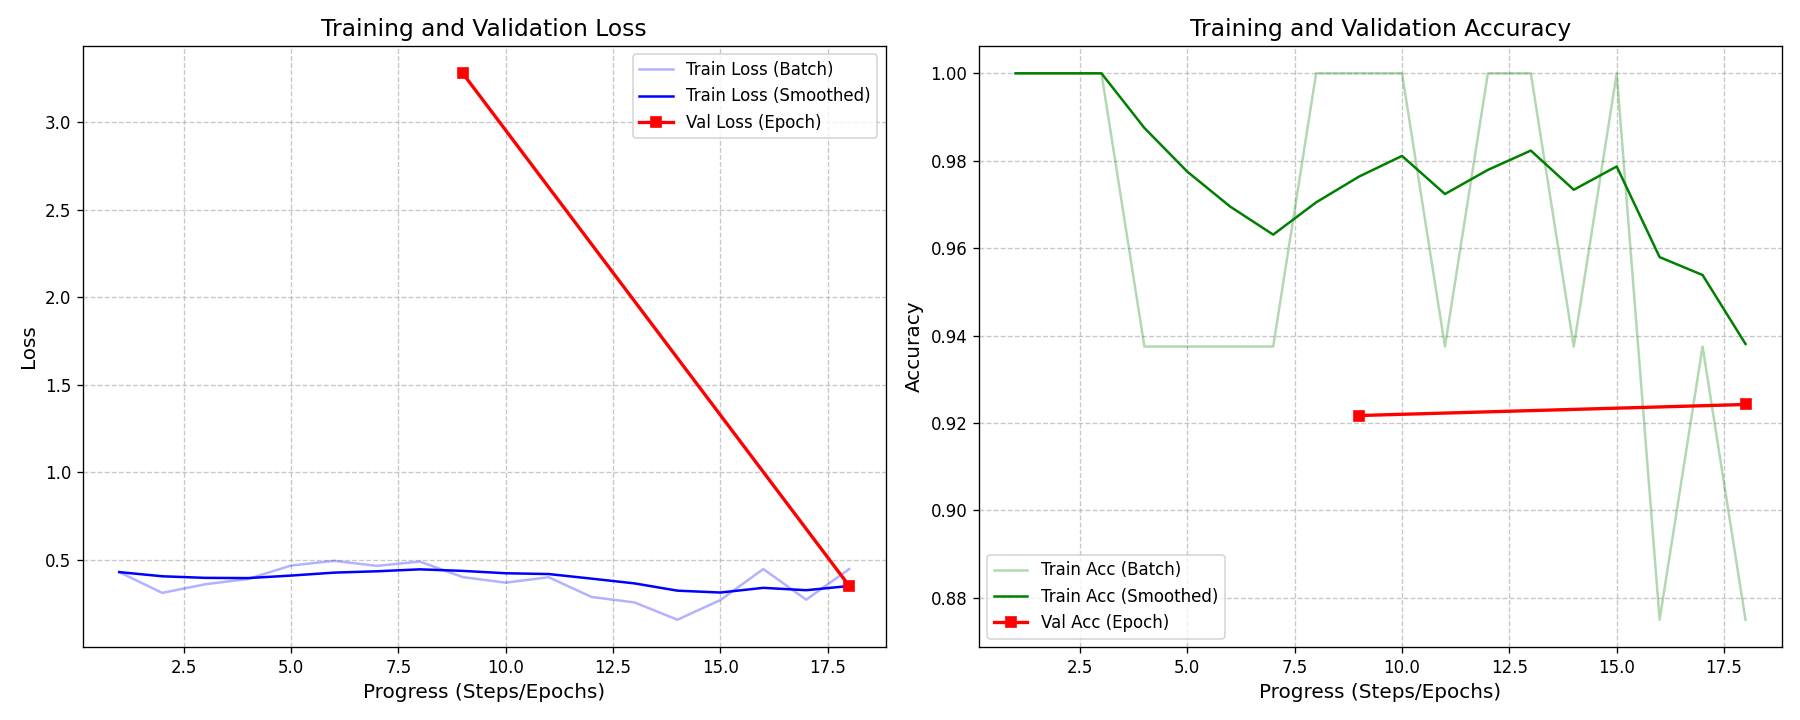
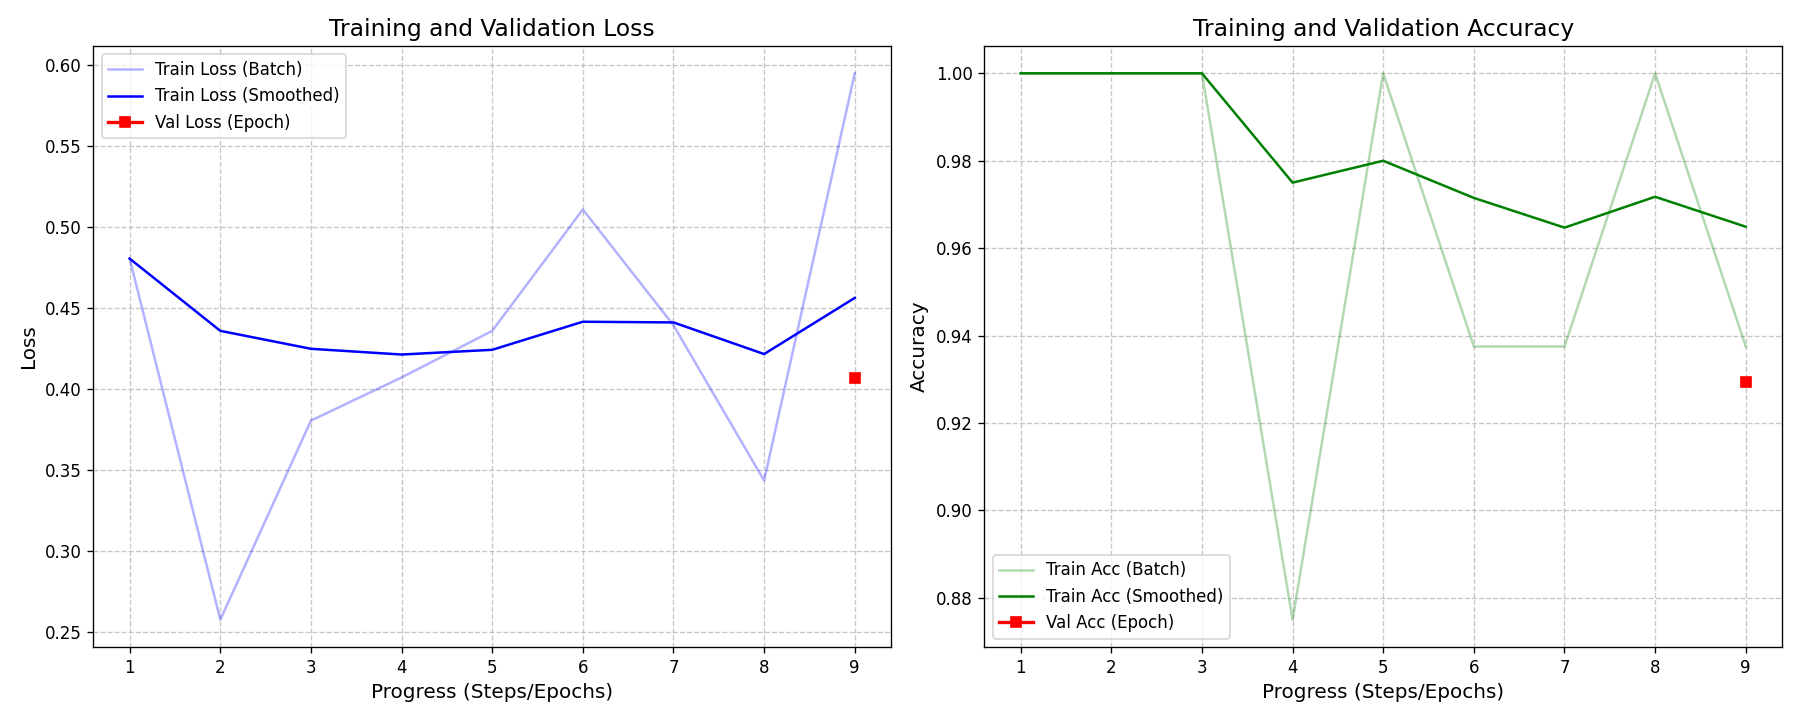
Final 1-epoch results with inclusive thresholds and improved train script

diff --git a/src/train.py b/src/train.py
@@ -134,5 +134,10 @@ def train_model(num_epochs=5, batch_size=16, learning_rate=0.001):
     print("Model saved to models/pothole_risk_model.pth")
 
 if __name__ == "__main__":
-    # Run for just 2 epochs for demonstration
-    train_model(num_epochs=2, batch_size=16)
+    import argparse
+    parser = argparse.ArgumentParser()
+    parser.add_argument("--epochs", type=int, default=5, help="Number of training epochs")
+    parser.add_argument("--batch_size", type=int, default=16, help="Batch size")
+    args = parser.parse_args()
+    
+    train_model(num_epochs=args.epochs, batch_size=args.batch_size)

diff --git a/README.md b/README.md
@@ -82,11 +82,11 @@ The following graphs show the training progress and classification performance o
 ### Classification Report
 | Category | Precision | Recall | F1-Score | Support |
 | :--- | :--- | :--- | :--- | :--- |
-| **LOW** | 0.74 | 0.95 | 0.83 | 130 |
-| **MODERATE** | 0.27 | 0.50 | 0.35 | 28 |
-| **HIGH** | 0.41 | 0.33 | 0.36 | 40 |
-| **CRITICAL** | 0.96 | 0.71 | 0.81 | 198 |
-| **Average / Total** | **0.78** | **0.73** | **0.74** | **396** |
+| **LOW** | 0.82 | 0.65 | 0.72 | 130 |
+| **MODERATE** | 0.23 | 0.43 | 0.30 | 28 |
+| **HIGH** | 0.18 | 0.38 | 0.25 | 40 |
+| **CRITICAL** | 0.84 | 0.67 | 0.75 | 198 |
+| **Average / Total** | **0.72** | **0.62** | **0.66** | **396** |
 
 ### Technical Specifications
 | Feature | Details |
